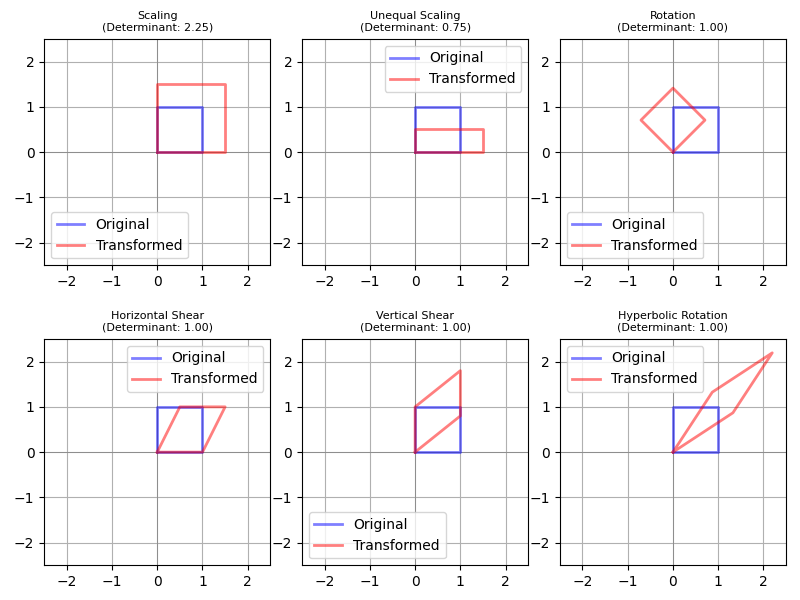
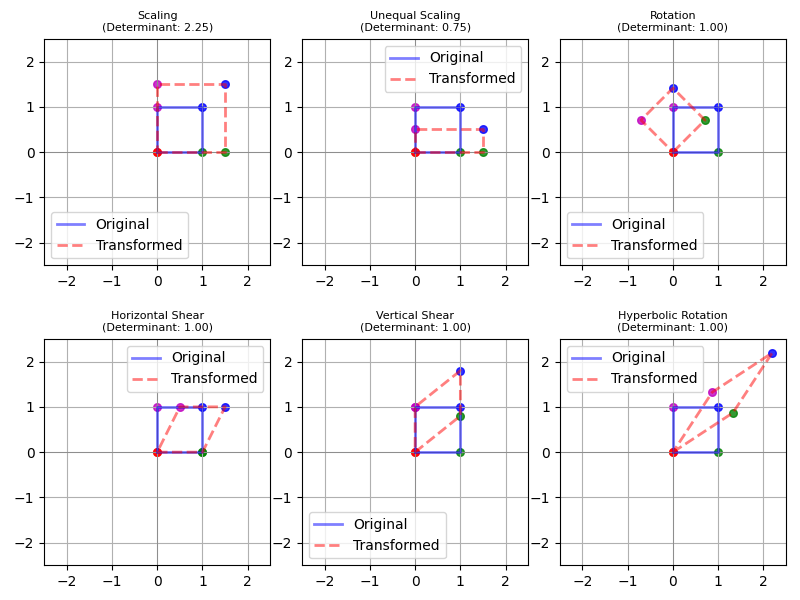
activation

diff --git a/source/ch0-math/matrix_rank.py b/source/ch0-math/matrix_rank.py
@@ -1,38 +1,58 @@
 import numpy as np
 
-# 创建全零矩阵
+# Create a zero matrix
 zero_matrix = np.zeros((4, 4))
+print("Zero matrix:")
+print(zero_matrix)
 
-# 计算全零矩阵的秩
+# Calculate the rank of the zero matrix
 rank_zero_matrix = np.linalg.matrix_rank(zero_matrix)
 print("Rank of zero matrix:", rank_zero_matrix)
 
-# 创建元素为e^0的矩阵
-exp_matrix = np.exp(zero_matrix)
+# Create a matrix with elements e^0
+exp_matrix_zero = np.exp(zero_matrix)
+print("Matrix with elements e^0 (exp(zero matrix)):")
+print(exp_matrix_zero)
 
-# 计算元素为e^0的矩阵的秩
-rank_exp_matrix = np.linalg.matrix_rank(exp_matrix)
-print("Rank of exp(zero matrix):", rank_exp_matrix)
+# Calculate the rank of the matrix with elements e^0
+rank_exp_matrix_zero = np.linalg.matrix_rank(exp_matrix_zero)
+print("Rank of exp(zero matrix):", rank_exp_matrix_zero)
 
-n = 100
+n = 5
 x = np.random.randn(n)
-y = x[:, None].dot(x[None])
+y = x[:, None] @ x[None]
+print("Matrix y (outer product of random vector x):")
+print(y)
 
-print(np.linalg.matrix_rank(y)) # 秩为1
-print(np.linalg.matrix_rank(np.exp(y))) # 秩大概率为17、18
+# Calculate the rank of y
+rank_y = np.linalg.matrix_rank(y)
+print("Rank of matrix y:", rank_y)
 
-# 创建原始矩阵
+# Apply exponential function to matrix y
+exp_y = np.exp(y)
+print("Matrix exp(y) after exponential:")
+print(exp_y)
+
+# Calculate the rank of exp(y)
+rank_exp_y = np.linalg.matrix_rank(exp_y)
+print("Rank of exp(y):", rank_exp_y)
+
+# Create the original matrix
 original_matrix = np.array([[0, 1, 2],
                             [3, 4, 5],
                             [3, 4, 5]])
+print("Original matrix:")
+print(original_matrix)
 
-# 计算原始矩阵的秩
+# Calculate the rank of the original matrix
 rank_original_matrix = np.linalg.matrix_rank(original_matrix)
 print("Rank of original matrix:", rank_original_matrix)
 
-# 对每个元素取指数
-exp_matrix = np.exp(original_matrix)
+# Apply the exponential function to each element of the original matrix
+exp_matrix_original = np.exp(original_matrix)
+print("Matrix with elements exp(original matrix):")
+print(exp_matrix_original)
 
-# 计算取指数后矩阵的秩
-rank_exp_matrix = np.linalg.matrix_rank(exp_matrix)
-print("Rank of exp(original matrix):", rank_exp_matrix)
+# Calculate the rank of the matrix after applying the exponential function
+rank_exp_matrix_original = np.linalg.matrix_rank(exp_matrix_original)
+print("Rank of exp(original matrix):", rank_exp_matrix_original)

diff --git a/source/ch0-math/matrix_transform.py b/source/ch0-math/matrix_transform.py
@@ -42,6 +42,8 @@ def hyperbolic_rotation_matrix(phi):
 # Function to plot the transformations
 def plot_transformations(transformations, titles):
     plt.figure(figsize=(8, 6))
+    vertex_colors = ['r', 'g', 'b', 'm']  # Colors for the vertices
+
     for i, (transformation, title) in enumerate(zip(transformations, titles)):
         plt.subplot(2, 3, i + 1)
         plt.axhline(0, color='grey', lw=0.5)
@@ -52,7 +54,12 @@ def plot_transformations(transformations, titles):
         transformed_shape = transformation @ original_shape
 
         plt.plot(original_shape[0], original_shape[1], 'b-', label='Original', alpha=0.5, linewidth=2)
-        plt.plot(transformed_shape[0], transformed_shape[1], 'r-', label='Transformed', alpha=0.5, linewidth=2)
+        plt.plot(transformed_shape[0], transformed_shape[1], 'r--', label='Transformed', alpha=0.5, linewidth=2)
+
+        # Plot each vertex with a different color
+        for j in range(4):
+            plt.scatter(original_shape[0, j], original_shape[1, j], color=vertex_colors[j], s=30, alpha=0.8)
+            plt.scatter(transformed_shape[0, j], transformed_shape[1, j], color=vertex_colors[j], s=30, alpha=0.8)
 
         plt.xlim(-2.5, 2.5)
         plt.ylim(-2.5, 2.5)
